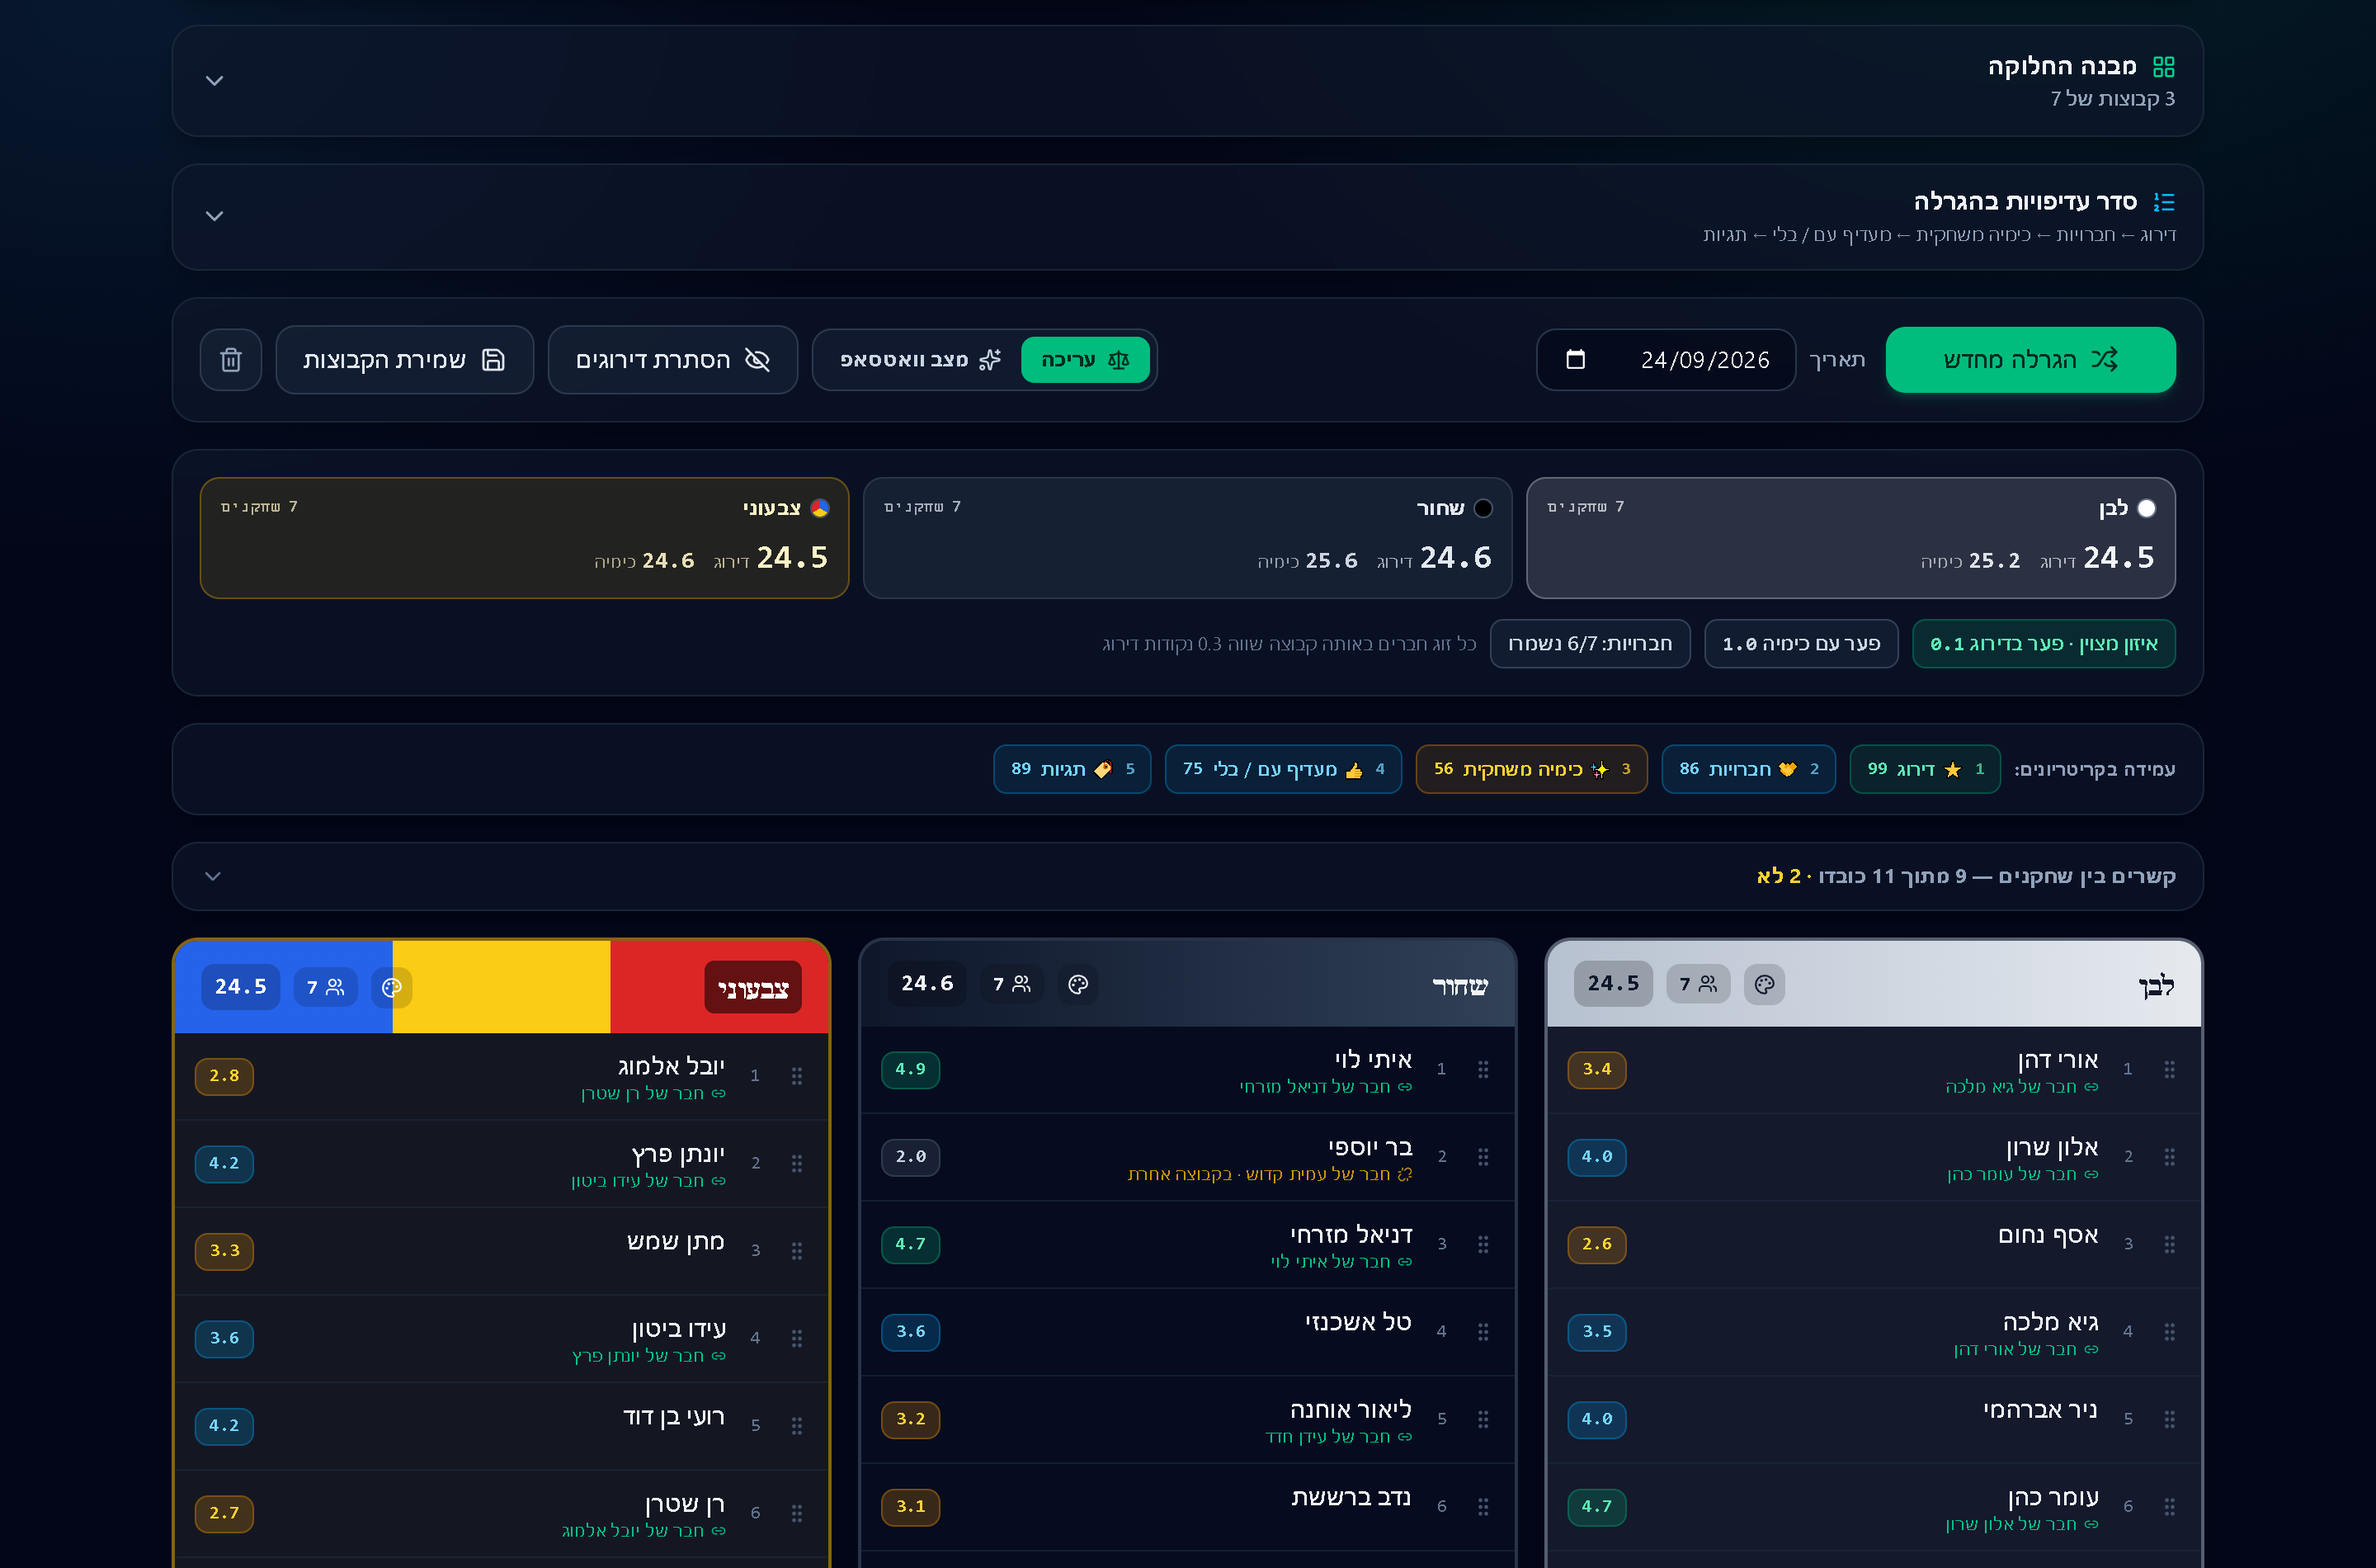
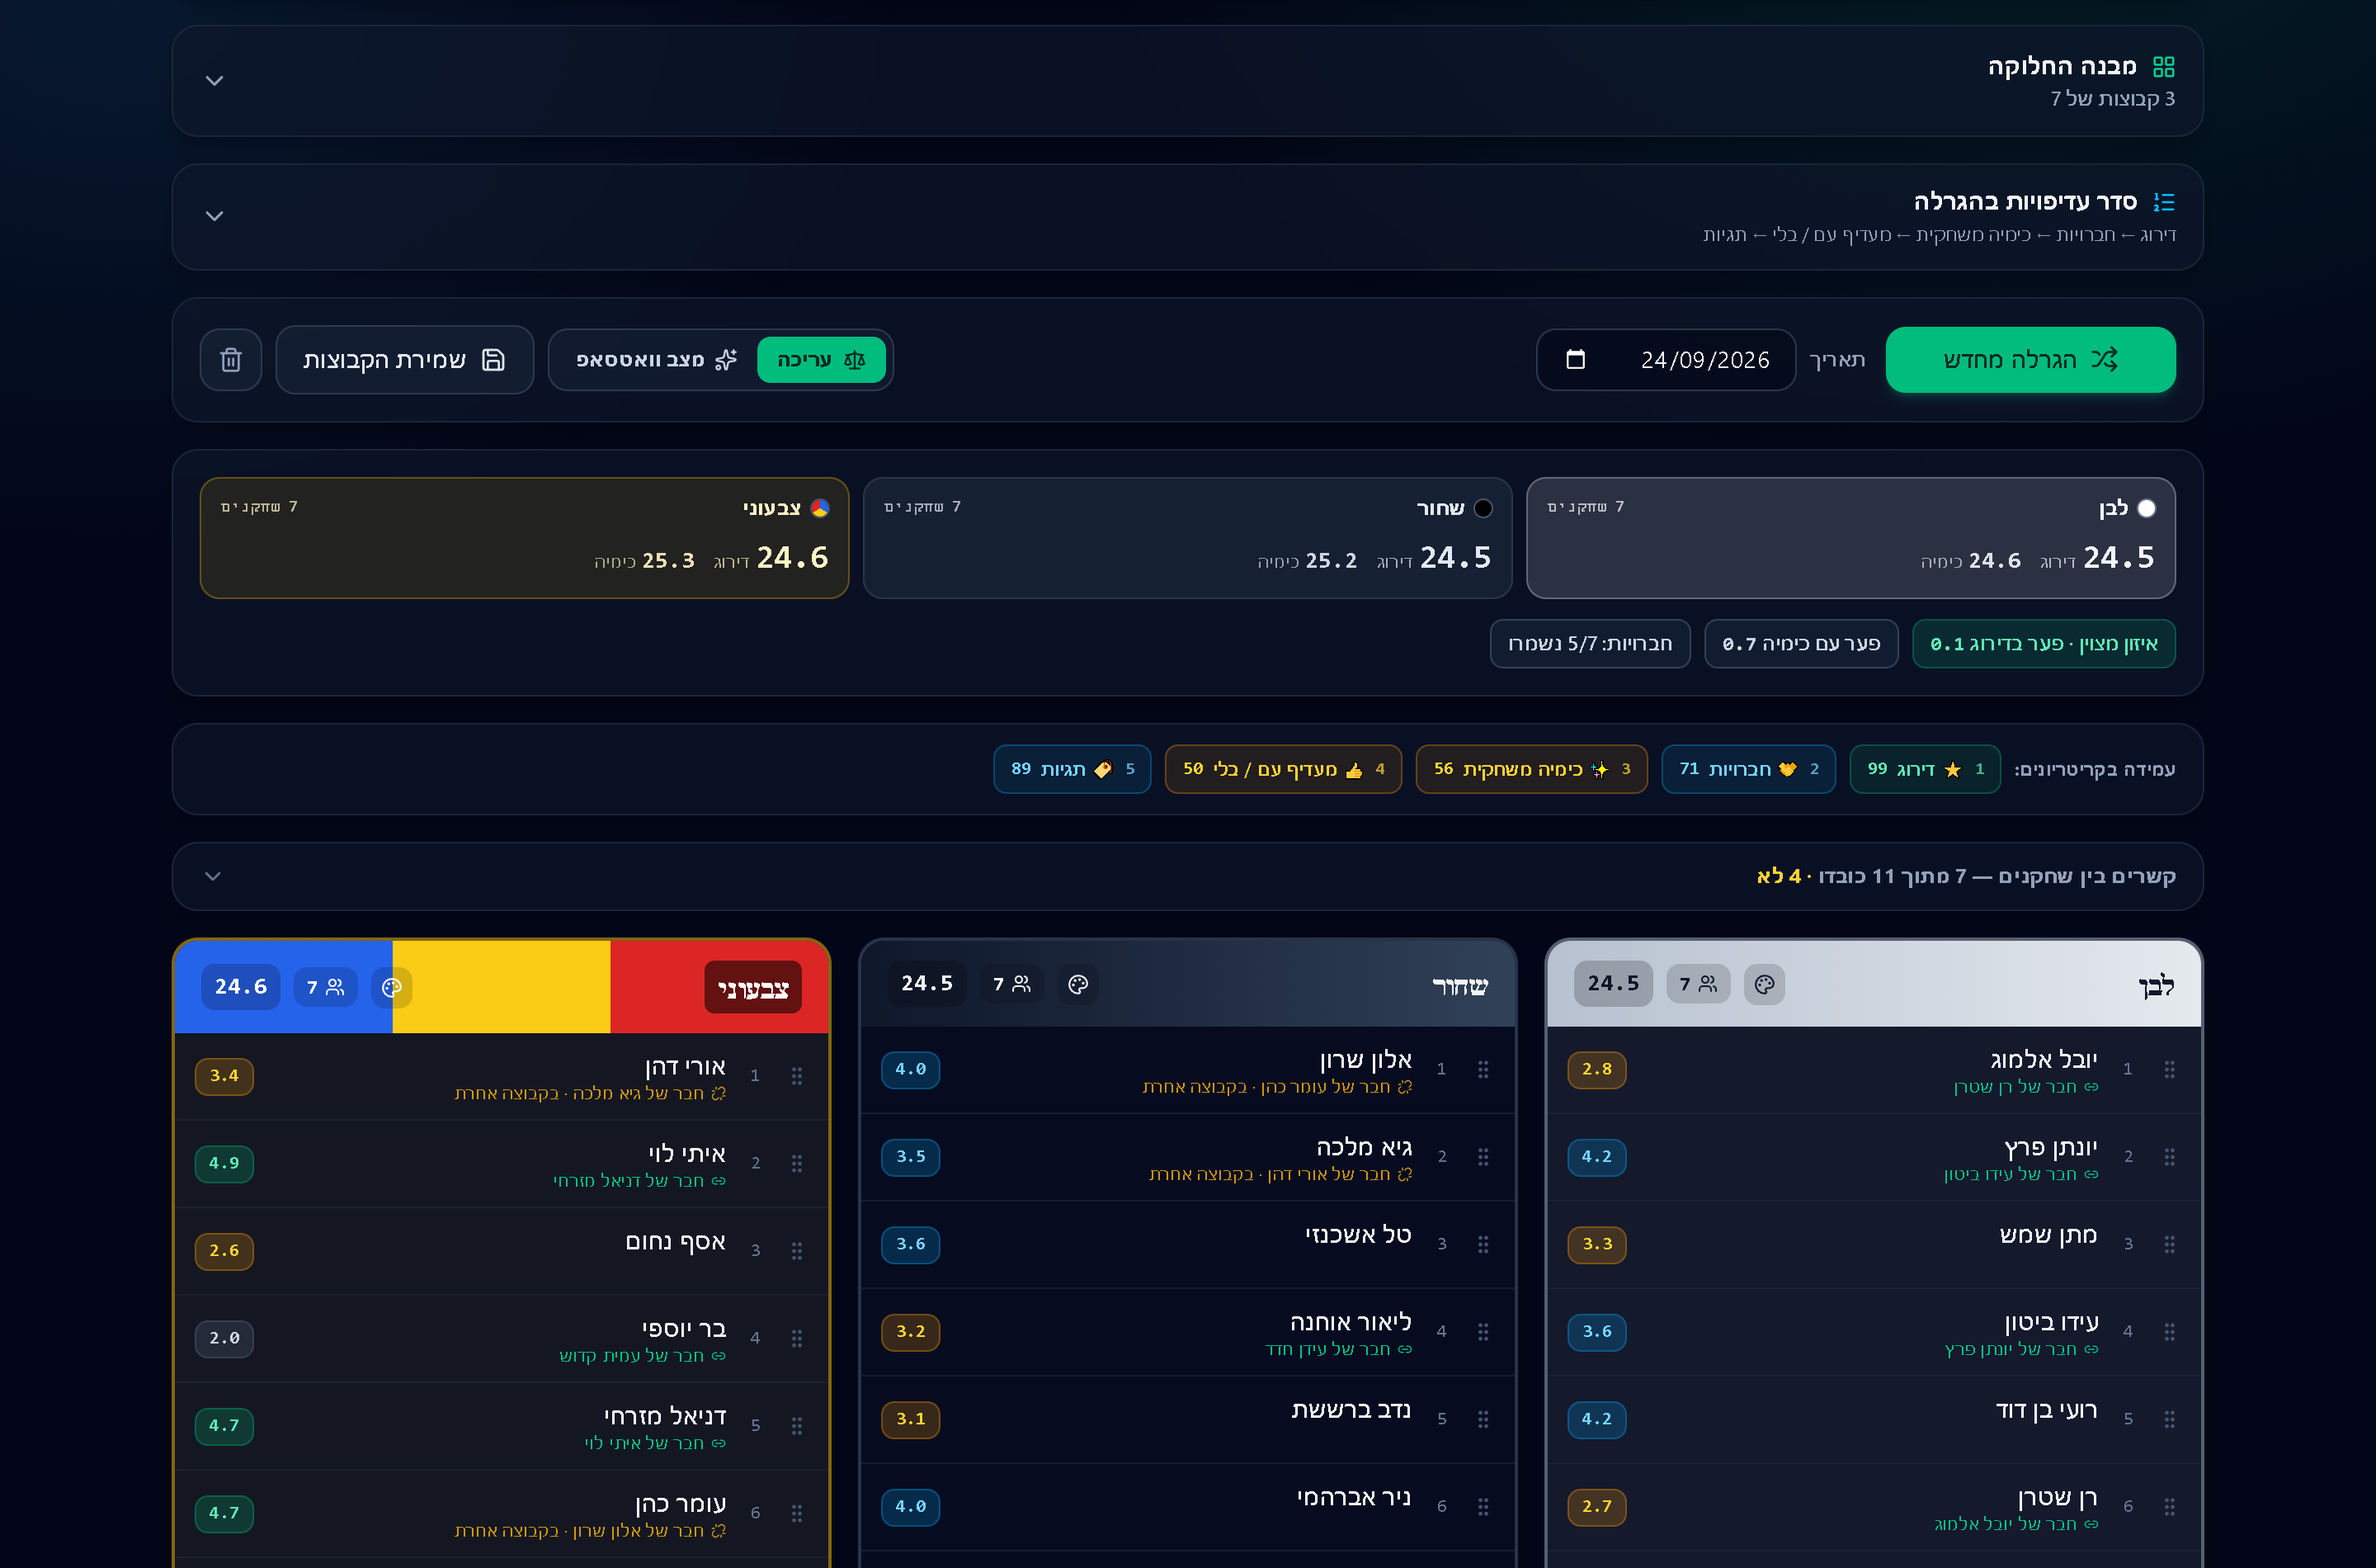
Retake the Teams FC screenshots after the hide-ratings button went away

diff --git a/src/data/projectsData.ts b/src/data/projectsData.ts
@@ -90,7 +90,7 @@ export const projects: Project[] = [
     media: [
       {
         src: "/media/teams-fc/draw.png",
-        alt: "Three balanced teams after a draw — rated 24.5, 24.6 and 24.5, a 0.1 gap, with 6 of 7 friendships kept together",
+        alt: "Three balanced teams after a draw — rated 24.5, 24.5 and 24.6, a 0.1 gap, with 5 of 7 friendships kept together",
         kind: "screenshot",
         width: 2880,
         height: 1900,
